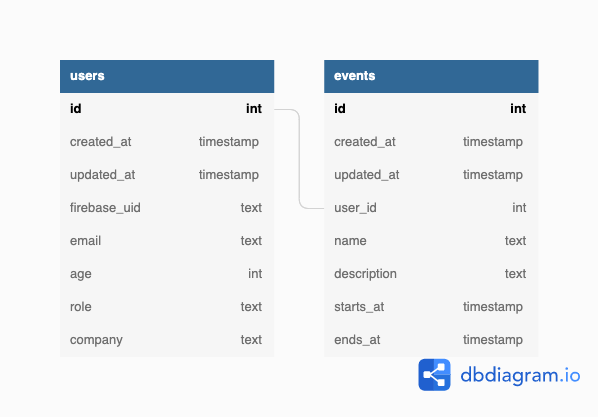
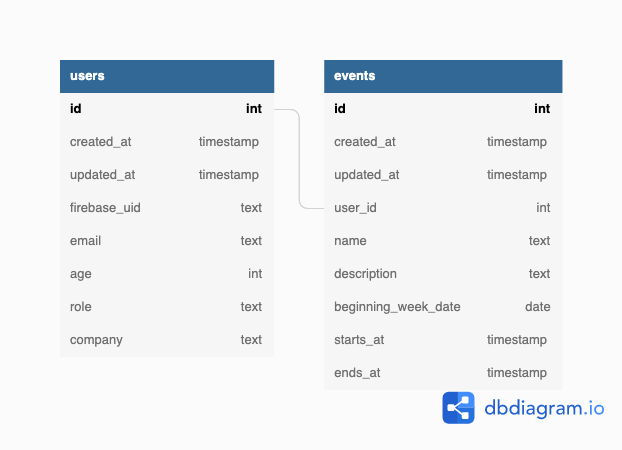
feat: Add endpoint to get users.

diff --git a/it_life_api/pkg/domain/contract/request.go b/it_life_api/pkg/domain/contract/request.go
@@ -11,18 +11,14 @@ type (
 		Role        string `json:"role"`
 		Company     string `json:"company"`
 	}
-)
 
-type (
 	// EventPostRequestBody is request body for creating a event.
 	EventPostRequestBody struct {
 		UserID uint64      `json:"userId"`
 		Date   string      `json:"date"`
 		Events []EventItem `json:"events"`
 	}
-)
 
-type (
 	// EventItem is an element of events.
 	EventItem struct {
 		Name        string `json:"name"`
@@ -31,6 +27,23 @@ type (
 		Description string `json:"description"`
 	}
 )
+
+func (eventPostRequestBody EventPostRequestBody) GetBeginningWeekDate() time.Time {
+	eventDate, err := time.Parse("2006/01/02", eventPostRequestBody.Date)
+	if err != nil {
+		// TODO: Custom error handling
+		panic(err)
+	}
+	weekDay := eventDate.Weekday()
+	var beginningWeekDate time.Time
+
+	if weekDay == time.Sunday {
+		beginningWeekDate = eventDate.AddDate(0, 0, -6)
+	} else {
+		beginningWeekDate = eventDate.AddDate(0, 0, -int(weekDay)+1)
+	}
+	return beginningWeekDate
+}
 
 func (eventItem EventItem) GetStartsAt(date string) time.Time {
 	startsAt, err := time.Parse("2006/01/02 15:04", date+" "+eventItem.StartTime)

diff --git a/it_life_api/pkg/usecase/get_users.go b/it_life_api/pkg/usecase/get_users.go
@@ -1,0 +1,33 @@
+package usecase
+
+import (
+	"github.com/rikuhatano09/it-life-api/internal/infrastructure/persistence"
+	"github.com/rikuhatano09/it-life-api/pkg/domain/contract"
+)
+
+func GetUsers() ([]contract.UserWithWeekDataResponse, error) {
+	userPersistence := persistence.NewUserPersistence()
+	eventPersistence := persistence.NewEventPersistence()
+	response := []contract.UserWithWeekDataResponse{}
+
+	users, err := userPersistence.GetAll()
+	if err != nil {
+		return []contract.UserWithWeekDataResponse{}, err
+	}
+
+	for _, user := range users {
+		weekItems, err := eventPersistence.GetWeekItemByUserID(user.ID)
+		if err != nil {
+			return []contract.UserWithWeekDataResponse{}, err
+		}
+
+		response = append(response, contract.UserWithWeekDataResponse{
+			UserID:   user.ID,
+			Age:      user.Age,
+			Role:     user.Role,
+			Company:  user.Company,
+			WeekData: weekItems,
+		})
+	}
+	return response, nil
+}

diff --git a/it_life_api/pkg/usecase/create_events.go b/it_life_api/pkg/usecase/create_events.go
@@ -12,11 +12,12 @@ func CreateEvents(requestBody contract.EventPostRequestBody) ([]model.Event, err
 
 	for _, eventItem := range requestBody.Events {
 		event := model.Event{
-			UserID:      requestBody.UserID,
-			Name:        eventItem.Name,
-			Description: eventItem.Description,
-			StartsAt:    eventItem.GetStartsAt(requestBody.Date),
-			EndsAt:      eventItem.GetEndsAt(requestBody.Date),
+			UserID:            requestBody.UserID,
+			Name:              eventItem.Name,
+			Description:       eventItem.Description,
+			BeginningWeekDate: requestBody.GetBeginningWeekDate(),
+			StartsAt:          eventItem.GetStartsAt(requestBody.Date),
+			EndsAt:            eventItem.GetEndsAt(requestBody.Date),
 		}
 
 		event, err := eventPersistence.Create(event)

diff --git a/it_life_api/internal/infrastructure/persistence/event.go b/it_life_api/internal/infrastructure/persistence/event.go
@@ -3,6 +3,7 @@ package persistence
 import (
 	"gorm.io/gorm"
 
+	"github.com/rikuhatano09/it-life-api/pkg/domain/contract"
 	"github.com/rikuhatano09/it-life-api/pkg/domain/model"
 	"github.com/rikuhatano09/it-life-api/pkg/domain/repository"
 )
@@ -27,4 +28,15 @@ func (eventPersistence EventPersistence) Create(event model.Event) (model.Event,
 		Create(&event)
 
 	return event, result.Error
+}
+
+func (eventPersistence EventPersistence) GetWeekItemByUserID(userID uint64) ([]contract.WeekItem, error) {
+	weekItems := []contract.WeekItem{}
+
+	result := eventPersistence.Connection.
+		Model(&model.Event{}).
+		Select(`TO_CHAR("beginning_week_date", 'YYYY/MM/DD') as "date"`).
+		Find(&weekItems)
+
+	return weekItems, result.Error
 }

diff --git a/it_life_api/pkg/domain/model/event.go b/it_life_api/pkg/domain/model/event.go
@@ -4,11 +4,12 @@ import "time"
 
 type (
 	Event struct {
-		ID          uint64    `json:"id"`
-		UserID      uint64    `json:"userId"`
-		Name        string    `json:"name"`
-		Description string    `json:"description"`
-		StartsAt    time.Time `json:"startsAt"`
-		EndsAt      time.Time `json:"endsAt"`
+		ID                uint64    `json:"id"`
+		UserID            uint64    `json:"userId"`
+		Name              string    `json:"name"`
+		Description       string    `json:"description"`
+		BeginningWeekDate time.Time `json:"beginningWeekDate"`
+		StartsAt          time.Time `json:"startsAt"`
+		EndsAt            time.Time `json:"endsAt"`
 	}
 )

diff --git a/it_life_api/pkg/domain/contract/response.go b/it_life_api/pkg/domain/contract/response.go
@@ -1,0 +1,19 @@
+package contract
+
+type (
+	// UserWithWeekDataResponse is response of user with week data.
+	UserWithWeekDataResponse struct {
+		UserID   uint64     `json:"userId"`
+		Age      uint32     `json:"age"`
+		Role     string     `json:"role"`
+		Company  string     `json:"company"`
+		WeekData []WeekItem `json:"weekData"`
+	}
+
+	// WeekItem is an element of week data.
+	WeekItem struct {
+		Date       string `json:"date"`
+		DateCount  uint32 `json:"dateCount"`
+		EventCount uint32 `json:"eventCount"`
+	}
+)

diff --git a/it_life_api/cmd/main.go b/it_life_api/cmd/main.go
@@ -15,9 +15,6 @@ func main() {
 
 	// Set CORS config.
 	engine.Use(cors.New(cors.Config{
-		AllowOrigins: []string{
-			"http://localhost:3000",
-		},
 		AllowMethods: []string{
 			"GET",
 			"POST",
@@ -39,7 +36,10 @@ func main() {
 			"message": "Hello ITLife",
 		})
 	})
+
+	engine.GET("/users", handler.GetUsers)
 	engine.POST("/users", handler.CreateUser)
+
 	engine.POST("/events", handler.CreateEvents)
 
 	engine.Run(":8000")

diff --git a/it_life_api/pkg/domain/repository/event.go b/it_life_api/pkg/domain/repository/event.go
@@ -1,9 +1,13 @@
 package repository
 
-import "github.com/rikuhatano09/it-life-api/pkg/domain/model"
+import (
+	"github.com/rikuhatano09/it-life-api/pkg/domain/contract"
+	"github.com/rikuhatano09/it-life-api/pkg/domain/model"
+)
 
 type (
 	EventRepository interface {
 		Create(model.Event) (model.Event, error)
+		GetWeekItemByUserID(uint64) ([]contract.WeekItem, error)
 	}
 )

diff --git a/it_life_api/internal/interfaces/handler/user.go b/it_life_api/internal/interfaces/handler/user.go
@@ -30,3 +30,14 @@ func CreateUser(context *gin.Context) {
 	}
 	context.JSON(http.StatusOK, user)
 }
+
+func GetUsers(context *gin.Context) {
+	users, err := usecase.GetUsers()
+	if err != nil {
+		context.JSON(http.StatusInternalServerError, gin.H{
+			"message": fmt.Sprintf("Internal server error: %s", err.Error()),
+		})
+		return
+	}
+	context.JSON(http.StatusOK, users)
+}

diff --git a/it_life_api/internal/infrastructure/persistence/user.go b/it_life_api/internal/infrastructure/persistence/user.go
@@ -28,3 +28,12 @@ func (userPersistence UserPersistence) Create(user model.User) (model.User, erro
 
 	return user, result.Error
 }
+
+func (userPersistence UserPersistence) GetAll() ([]model.User, error) {
+	users := []model.User{}
+
+	result := userPersistence.Connection.
+		Find(&users)
+
+	return users, result.Error
+}

diff --git a/it_life_api/pkg/domain/repository/user.go b/it_life_api/pkg/domain/repository/user.go
@@ -5,5 +5,6 @@ import "github.com/rikuhatano09/it-life-api/pkg/domain/model"
 type (
 	UserRepository interface {
 		Create(model.User) (model.User, error)
+		GetAll() ([]model.User, error)
 	}
 )
